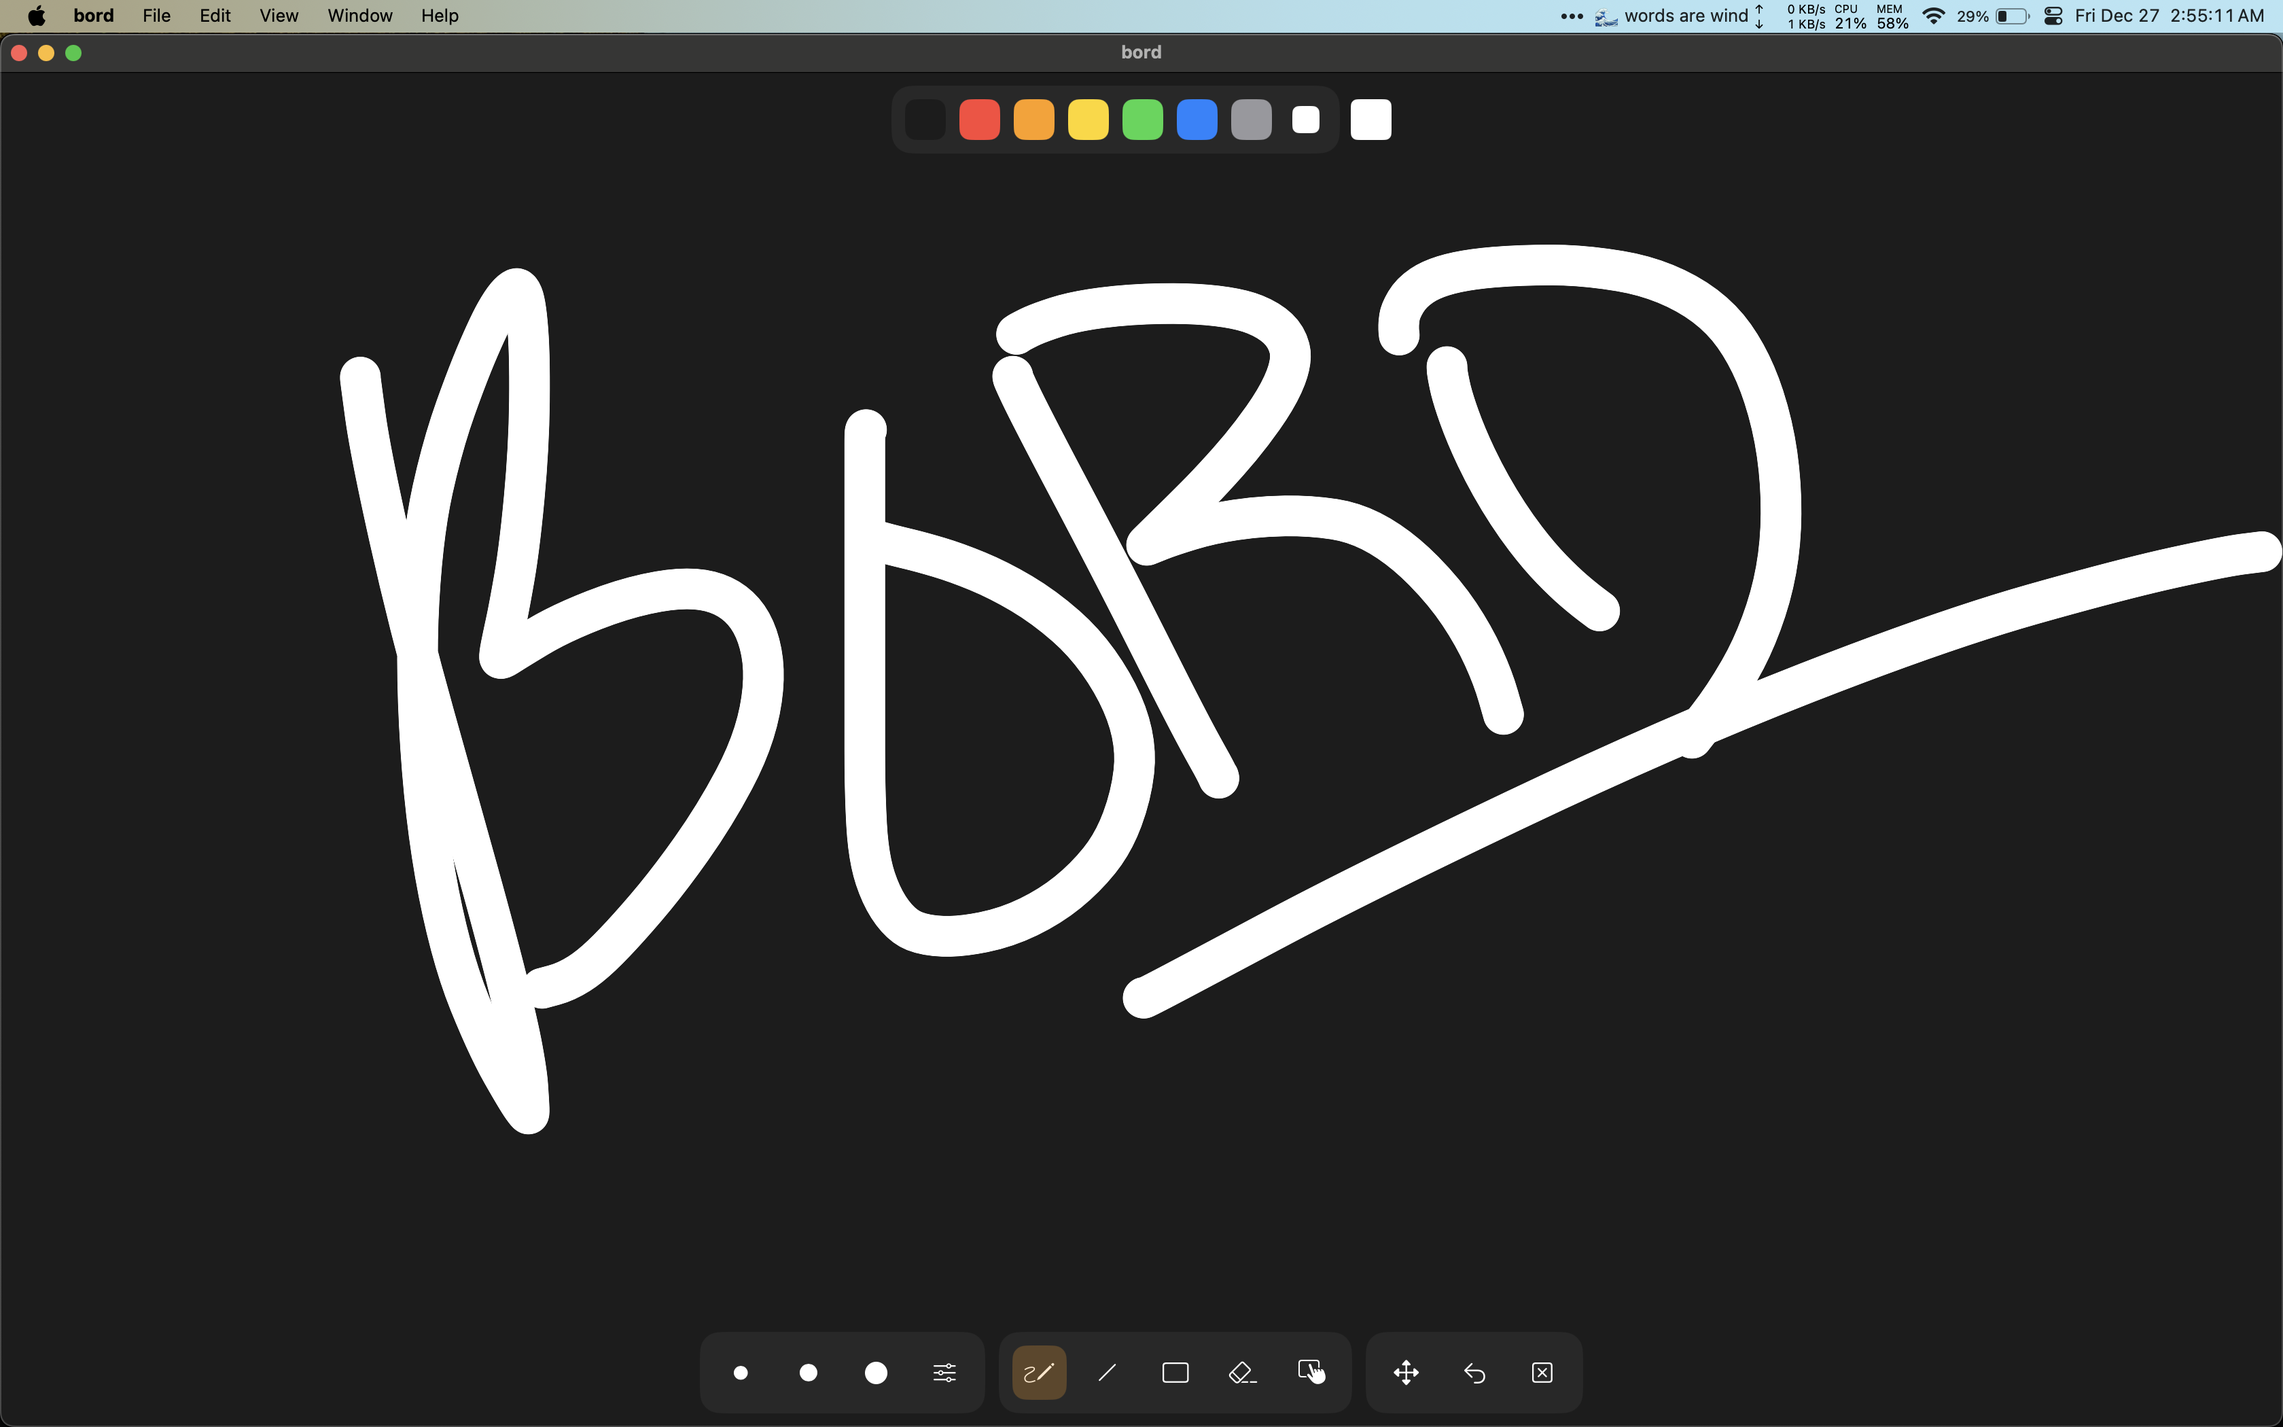
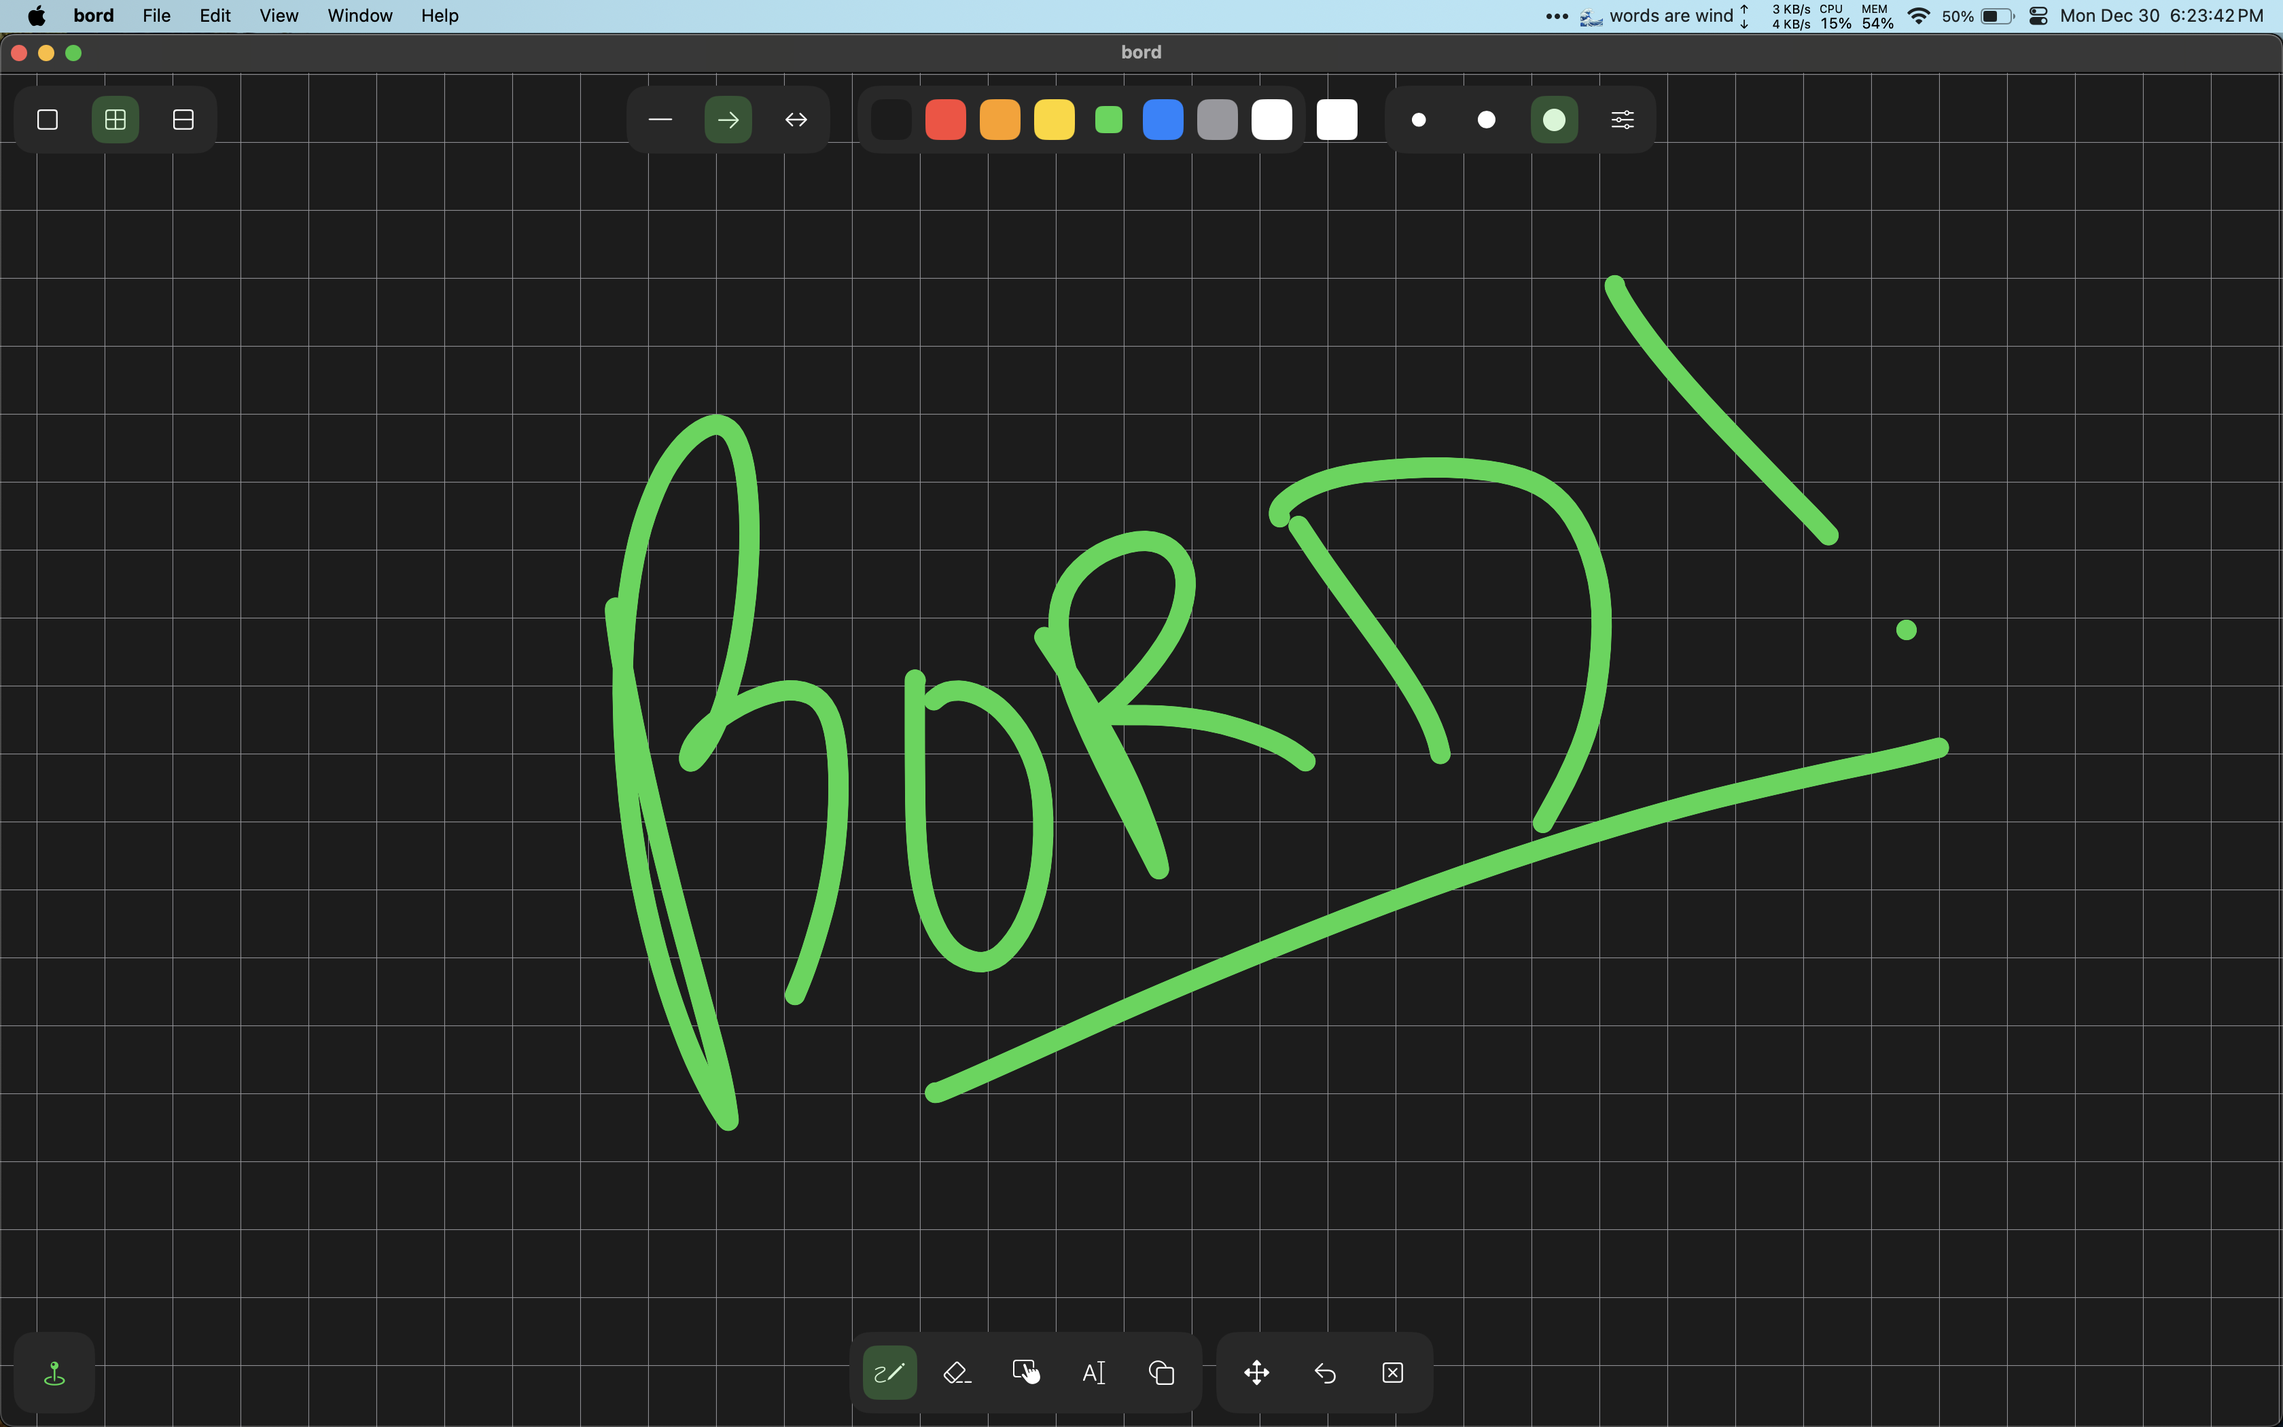
have some bum arrow functionality working, saving before moving to CGMutablePath

diff --git a/bord/src/ViewModels/CanvasItemsViewModel.swift b/bord/src/ViewModels/CanvasItemsViewModel.swift
@@ -8,6 +8,9 @@
 import Foundation
 import SwiftUI
 
+/**
+    * The view model for the canvas items. This class is responsible for managing the canvas items and their properties.
+ */
 class CanvasItemsViewModel: ObservableObject {
     @Published var lines: [LineModel] = []
     @Published var texts: [TextModel] = []
@@ -16,6 +19,7 @@ class CanvasItemsViewModel: ObservableObject {
     @Published var selectedPath: CanvasItemModel?
     @Published var isMoving = false
     @Published var currentMoveOffset: CGPoint = .zero
+    @Published var drawEndMode: DrawEndMode = .plain
 
     var color: Color = .white
     var currentLine: LineModel = LineModel()
@@ -60,11 +64,9 @@ class CanvasItemsViewModel: ObservableObject {
     func newDraw(point: CGPoint) {
         if !drawing {
             drawing = true
-            currentLine = LineModel()
+            currentLine = LineModel(color: color, lineWidth: size)
             lines.append(currentLine)
             currentLine.path.move(to: point)
-            currentLine.color = color
-            currentLine.lineWidth = size
         } else {
             let prev = currentLine.points.last!
             let midPoint = CGPoint(
@@ -94,14 +96,75 @@ class CanvasItemsViewModel: ObservableObject {
         drawing = false
     }
 
+    func newDrawnArrow(point: CGPoint) {
+        if !drawing {
+            drawing = true
+            currentLine = LineModel(color: color, lineWidth: size)
+            lines.append(currentLine)
+            currentLine.path.move(to: point)
+        } else {
+            let prev = currentLine.points.last!
+            let midPoint = CGPoint(
+                x: (prev.x + point.x) / 2,
+                y: (prev.y + point.y) / 2
+            )
+            currentLine.path.addQuadCurve(to: midPoint, control: prev)
+        }
+        currentLine.points.append(point)
+        objectWillChange.send()
+    }
+
+    func endDrawnArrow() {
+        if currentLine.points.count > 1 {
+            let prev = currentLine.points[currentLine.points.count - 2]
+            let cur = currentLine.points.last!
+            let midPoint = CGPoint(
+                x: (prev.x + cur.x) / 2,
+                y: (prev.y + cur.y) / 2
+            )
+            currentLine.path.addQuadCurve(to: cur, control: midPoint)
+            objectWillChange.send()
+        } else if currentLine.points.count == 1 {
+            currentLine.path.addLine(to: currentLine.points.last!)
+            objectWillChange.send()
+        }
+        drawing = false
+    }
+
+    private func addArrow(from start: CGPoint, to end: CGPoint) {
+        let arrowLength: CGFloat = 15.0
+        let arrowAngle: CGFloat = .pi / 6.0
+
+        // Calculate the direction vector
+        let dx = end.x - start.x
+        let dy = end.y - start.y
+        let angle = atan2(dy, dx)
+
+        // Calculate the two points for the arrowhead
+        let point1 = CGPoint(
+            x: end.x - arrowLength * cos(angle - arrowAngle),
+            y: end.y - arrowLength * sin(angle - arrowAngle)
+        )
+        let point2 = CGPoint(
+            x: end.x - arrowLength * cos(angle + arrowAngle),
+            y: end.y - arrowLength * sin(angle + arrowAngle)
+        )
+
+        // Draw the arrowhead
+        currentLine.path.move(to: end)
+        currentLine.path.addLine(to: point1)
+        currentLine.path.move(to: end)
+        currentLine.path.addLine(to: point2)
+        currentLine.path.move(to: end)
+    }
+
+
     func newLine(point: CGPoint) {
         if !drawing {
             drawing = true
-            currentLine = LineModel()
+            currentLine = LineModel(color: color, lineWidth: size)
             lines.append(currentLine)
             currentLine.path.move(to: point)
-            currentLine.color = color
-            currentLine.lineWidth = size
             currentLine.points.append(point)
         } else {
             if currentLine.points.count == 1 {
@@ -127,11 +190,9 @@ class CanvasItemsViewModel: ObservableObject {
     func newRectangle(point: CGPoint) {
         if !drawing {
             drawing = true
-            currentLine = LineModel()
+            currentLine = LineModel(color: color, lineWidth: size)
             lines.append(currentLine)
             currentLine.path.move(to: point)
-            currentLine.color = color
-            currentLine.lineWidth = size
             currentLine.points.append(point)
         } else {
             if currentLine.points.count == 1 {

diff --git a/bord/src/Views/CanvasViews/DrawOptionsView.swift b/bord/src/Views/CanvasViews/DrawOptionsView.swift
@@ -1,0 +1,66 @@
+//
+//  DrawOptionsView.swift
+//  bord
+//
+//  Created by Aditya Patel on 12/30/24.
+//
+
+import SwiftUI
+
+struct DrawOptionsView: View {
+    @ObservedObject var canvasVM: CanvasItemsViewModel
+
+    @State var isHovered = false
+    var body: some View {
+        HStack(spacing: 0) {
+            // plain
+            Button {
+                canvasVM.drawEndMode = .plain
+            } label: {
+                ZStack {
+                    canvasVM.drawEndMode == .plain ? (
+                        Image(systemName: "line.diagonal")
+                            .frame(width: 50, height: 50)
+                            .imageScale(.large)
+                            .foregroundColor(isHovered ? .gray : .green)
+                            .rotationEffect(.degrees(45))
+                    ) : (
+                        Image(systemName: "line.diagonal")
+                            .frame(width: 50, height: 50)
+                            .imageScale(.large)
+                            .foregroundColor(isHovered ? .gray : .white)
+                            .rotationEffect(.degrees(45))
+                    )
+                    RoundedRectangle(cornerRadius: 10)
+                        .fill(Color.green.opacity(canvasVM.drawEndMode == .plain ? 0.25 : 0))
+                        .frame(width: 35, height: 35)
+                }
+                .onHover { hovering in
+                    isHovered = hovering
+                }
+            }
+            .buttonStyle(PlainButtonStyle())
+
+            // arrow
+            CanvasButton(
+                imageName: "arrow.right",
+                isSelected: canvasVM.drawEndMode == .arrow,
+                onTap: {
+                    canvasVM.drawEndMode = .arrow
+                },
+                highlightSize: 35
+            )
+            // arrowbothends
+            CanvasButton(
+                imageName: "arrow.left.and.right",
+                isSelected: canvasVM.drawEndMode == .twoEndArrow,
+                onTap: {
+                    canvasVM.drawEndMode = .twoEndArrow
+                },
+                highlightSize: 35
+            )
+        }
+        .background(ColorManager.lighterGrey)
+        .cornerRadius(15)
+    }
+}

diff --git a/bord/src/Views/CanvasViews/SizePickerView.swift b/bord/src/Views/CanvasViews/SizePickerView.swift
@@ -12,14 +12,6 @@ struct SizePickerView: View {
     @State private var sliderVisible: Bool = false
     var body: some View {
         VStack {
-            if sliderVisible {
-                Slider(value: $canvasVM.size, in: 1...30, step: 1)
-                    .padding()
-                    .frame(width: 200)
-                    .background(Color.black.cornerRadius(10))
-                    .shadow(radius: 5)
-            }
-
             HStack(spacing: 0) {
                 // small
                 CanvasButton(
@@ -28,7 +20,8 @@ struct SizePickerView: View {
                     onTap: {
                         canvasVM.setSize(newSize: 1.5)
                     },
-                    imageSize: .small
+                    imageSize: .small,
+                    highlightSize: 35
                 )
                 // medium
                 CanvasButton(
@@ -37,16 +30,18 @@ struct SizePickerView: View {
                     onTap: {
                         canvasVM.setSize(newSize: 4)
                     },
-                    imageSize: .medium
+                    imageSize: .medium,
+                    highlightSize: 35
                 )
                 // large
                 CanvasButton(
                     imageName: "circle.fill",
-                    isSelected: canvasVM.size == 8,
+                    isSelected: canvasVM.size == 15,
                     onTap: {
                         canvasVM.setSize(newSize: 15)
                     },
-                    imageSize: .large
+                    imageSize: .large,
+                    highlightSize: 35
                 )
                 // slider
                 CanvasButton(
@@ -55,10 +50,16 @@ struct SizePickerView: View {
                     onTap: {sliderVisible.toggle()}
                 )
             }
-            .padding(5)
             .background(ColorManager.lighterGrey)
             .cornerRadius(15)
 
+            if sliderVisible {
+                Slider(value: $canvasVM.size, in: 1...30, step: 1)
+                    .padding()
+                    .frame(width: 200)
+                    .background(Color.black.cornerRadius(10))
+                    .shadow(radius: 5)
+            }
         }
     }
 }

diff --git a/bord/src/Views/ContentView.swift b/bord/src/Views/ContentView.swift
@@ -43,17 +43,24 @@ struct ContentView: View {
             }
 
             VStack {
-                let colorPickerInvisible = modeVM.mode == .pan || modeVM.mode == .erase || modeVM.mode == .select
-                HStack {
+                let colorPickerInvisible =
+                    modeVM.mode == .pan || modeVM.mode == .erase || modeVM.mode == .select
+                let drawModesVisible = modeVM.mode == .draw
+                HStack(alignment: .top, spacing: 0) {
                     Spacer()
+                    if drawModesVisible {
+                        DrawOptionsView(canvasVM: canvasVM)
+                            .padding(10)
+                    }
                     if !colorPickerInvisible {
                         ColorPickerView(canvasVM: canvasVM)
                             .padding(10)
                     }
                     let sizePickerVisible = modeVM.mode == .draw || modeVM.mode == .line ||
-                        modeVM.mode == .rectangle
+                        modeVM.mode == .rectangle || modeVM.mode == .arrow || modeVM.mode == .elipse
                     if sizePickerVisible {
                         SizePickerView(canvasVM: canvasVM)
+                            .padding(10)
                     }
                     Spacer()
                 }

diff --git a/bord/src/Views/CanvasViews/GridPickerView.swift b/bord/src/Views/CanvasViews/GridPickerView.swift
@@ -19,7 +19,8 @@ struct GridPickerView: View {
                     withAnimation(.spring(response: 0.3, dampingFraction: 0.8)) {
                         modeVM.gridMode = .none
                     }
-                }
+                },
+                highlightSize: 35
             )
             // grid
             CanvasButton(
@@ -29,7 +30,8 @@ struct GridPickerView: View {
                     withAnimation(.spring(response: 0.3, dampingFraction: 0.8)) {
                         modeVM.gridMode = .grid
                     }
-                }
+                },
+                highlightSize: 35
             )
             // lines
             CanvasButton(
@@ -39,10 +41,10 @@ struct GridPickerView: View {
                     withAnimation(.spring(response: 0.3, dampingFraction: 0.8)) {
                         modeVM.gridMode = .lines
                     }
-                }
+                },
+                highlightSize: 35
             )
         }
-        .padding(5)
         .background(ColorManager.lighterGrey)
         .cornerRadius(15)
     }

diff --git a/bord/src/Views/CanvasView.swift b/bord/src/Views/CanvasView.swift
@@ -149,6 +149,7 @@ struct CanvasView: View {
         }
     }
 
+    // swiftlint:disable:next cyclomatic_complexity
     private func handleDragChanged(_ value: DragGesture.Value) {
         let offsetPoint = CGPoint(
                 x: value.location.x - modeVM.currentPanOffset.width,
@@ -156,7 +157,14 @@ struct CanvasView: View {
             )
         switch modeVM.mode {
         case .draw:
-            canvasVM.newDraw(point: offsetPoint)
+            switch canvasVM.drawEndMode {
+            case .plain:
+                canvasVM.newDraw(point: offsetPoint)
+            case .arrow:
+                canvasVM.newDrawnArrow(point: offsetPoint)
+            case .twoEndArrow:
+                canvasVM.newDrawnArrow(point: offsetPoint)
+            }
         case .erase:
             handleEraseStroke(offsetPoint)
         case .select:

diff --git a/bord/src/Views/Components/CanvasButton.swift b/bord/src/Views/Components/CanvasButton.swift
@@ -14,6 +14,7 @@ struct CanvasButton: View {
     var highlighted: Bool = false
     var imageSize: Image.Scale = .large
     var imageFrameSize: CGFloat = 50
+    var highlightSize: CGFloat = 40
     var cornerRadius: CGFloat = 10
 
     var shortcut: KeyboardShortcut?
@@ -36,7 +37,7 @@ struct CanvasButton: View {
                 )
                 RoundedRectangle(cornerRadius: cornerRadius)
                     .fill(Color.green.opacity(isSelected ? 0.25 : 0))
-                    .frame(width: imageFrameSize - 10, height: imageFrameSize - 10)
+                    .frame(width: highlightSize, height: highlightSize)
             }
             .onHover { hovering in
                 isHovered = hovering

diff --git a/bord/src/Models/LineModel.swift b/bord/src/Models/LineModel.swift
@@ -12,4 +12,12 @@ class LineModel: CanvasItemModel {
     var points = [CGPoint]()
     var path = Path()
     var lineWidth: Double = 1.0
+
+    override init() {
+        super.init()
+    }
+    init(color: Color, lineWidth: Double) {
+        super.init(color: color)
+        self.lineWidth = lineWidth
+    }
 }

diff --git a/bord/src/ViewModels/CanvasModeViewModel.swift b/bord/src/ViewModels/CanvasModeViewModel.swift
@@ -13,9 +13,8 @@ class CanvasModeViewModel: ObservableObject {
 
     @Published var currentPanOffset: CGSize = .zero
     @Published var panOffset: CGSize = .zero
-    
     @Published var shapesEnabled: Bool = false
-    
+
     var defaultOffset: CGSize = .zero
 
     init() {}

diff --git a/bord/src/Models/DrawEndMode.swift b/bord/src/Models/DrawEndMode.swift
@@ -1,0 +1,14 @@
+//
+//  DrawMode.swift
+//  bord
+//
+//  Created by Aditya Patel on 12/30/24.
+//
+
+import Foundation
+
+enum DrawEndMode {
+    case plain
+    case arrow
+    case twoEndArrow
+}
